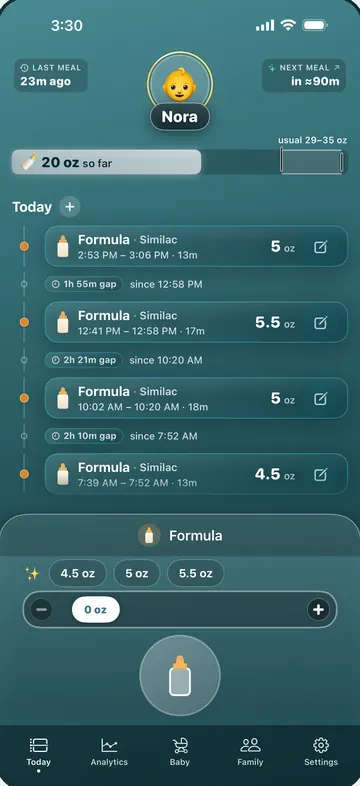
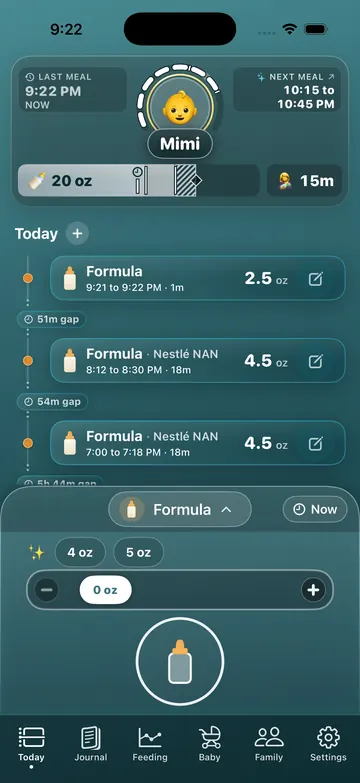
feat: how-it-works frames from one real 2.5 oz bottle recording

diff --git a/scripts/extract-frames.swift b/scripts/extract-frames.swift
@@ -1,0 +1,16 @@
+import AVFoundation
+import AppKit
+let args = CommandLine.arguments
+let asset = AVURLAsset(url: URL(fileURLWithPath: args[1]))
+let gen = AVAssetImageGenerator(asset: asset)
+gen.requestedTimeToleranceBefore = .zero; gen.requestedTimeToleranceAfter = .zero
+gen.appliesPreferredTrackTransform = true
+let dur = CMTimeGetSeconds(asset.duration)
+print("duration", dur, asset.tracks(withMediaType: .video).first?.naturalSize ?? .zero, asset.tracks(withMediaType: .video).first?.nominalFrameRate ?? 0)
+for a in args.dropFirst(3) {
+  guard let t = Double(a) else { continue }
+  if let cg = try? gen.copyCGImage(at: CMTime(seconds: t, preferredTimescale: 600), actualTime: nil) {
+    let rep = NSBitmapImageRep(cgImage: cg)
+    try? rep.representation(using: .png, properties: [:])?.write(to: URL(fileURLWithPath: "\(args[2])/f\(String(format: "%06.2f", t)).png"))
+  }
+}

diff --git a/scripts/prepare-how-it-works.py b/scripts/prepare-how-it-works.py
@@ -2,8 +2,11 @@
 
 Every frame is a real app capture. Nothing is drawn or retouched:
 - start   = screens/logging.jpg (the log menu), resized.
-- log     = the phone screen cropped out of the 01-safe-bottle store frame (bottle timer + Similac).
-- finish  = the phone screen cropped out of the 04-home store frame (today's total + timeline).
+- press, log, finish = three frames of ONE real recording of a 2.5 oz bottle being logged
+  (ff-167-livepolish scratch/livepolish/round3/attempt1/clip-i17.mp4, 1206x2622): Today before the
+  feed at 14.5 s (17.5 oz so far), the bottle screen at 37.5 s (2.5 oz taken, 1.5 oz left) and Today
+  after it at 44.1 s (the 2.5 oz row on top, 20 oz so far). So the amounts in the three phones agree
+  because they are the same feed. Extract them with scripts/extract-frames.swift (see RECORDING below).
 - report-scroll = screens/report.jpg stacked on top of the lower part of
   screens/store/report-detail.png (two real scroll positions of the same Baby Report),
   so the section can scroll it inside a phone frame.
@@ -60,8 +63,16 @@ if NEWER_PICKER.exists():
 else:
     START = Image.open(ROOT / "screens" / "logging.jpg").convert("RGB")
 save(START, "start")
-save(store_screen("01-safe-bottle"), "log")
-save(store_screen("04-home"), "finish")
+
+# swiftc -O scripts/extract-frames.swift -o /tmp/extract-frames
+# /tmp/extract-frames <clip-i17.mp4> <RECORDING dir> 14.5 37.5 44.1   (then rename as below)
+RECORDING = Path.home() / "Developer/feed-flow-web-howitworks-frames/sources"
+RECORDED = {"press": "home-before-t14.50.png", "log": "bottle-t37.50.png", "finish": "home-after-t44.10.png"}
+RECORDED_FRAMES = {}
+for name, filename in RECORDED.items():
+    if (RECORDING / filename).exists():
+        RECORDED_FRAMES[name] = Image.open(RECORDING / filename).convert("RGB")
+        save(RECORDED_FRAMES[name], name)
 save(report_scroll(), "report-scroll", quality=74)
 
 
@@ -93,8 +104,8 @@ def background_strip(image: Image.Image, name: str, left_cols=(0.008, 0.03), rig
 
 
 background_strip(START, "start")
-background_strip(store_screen("01-safe-bottle"), "log")
-background_strip(store_screen("04-home"), "finish")
+for name, frame in RECORDED_FRAMES.items():
+    background_strip(frame, name)
 background_strip(Image.open(ROOT / "screens" / "flowcast-720.webp"), "flowcast")
 
 
